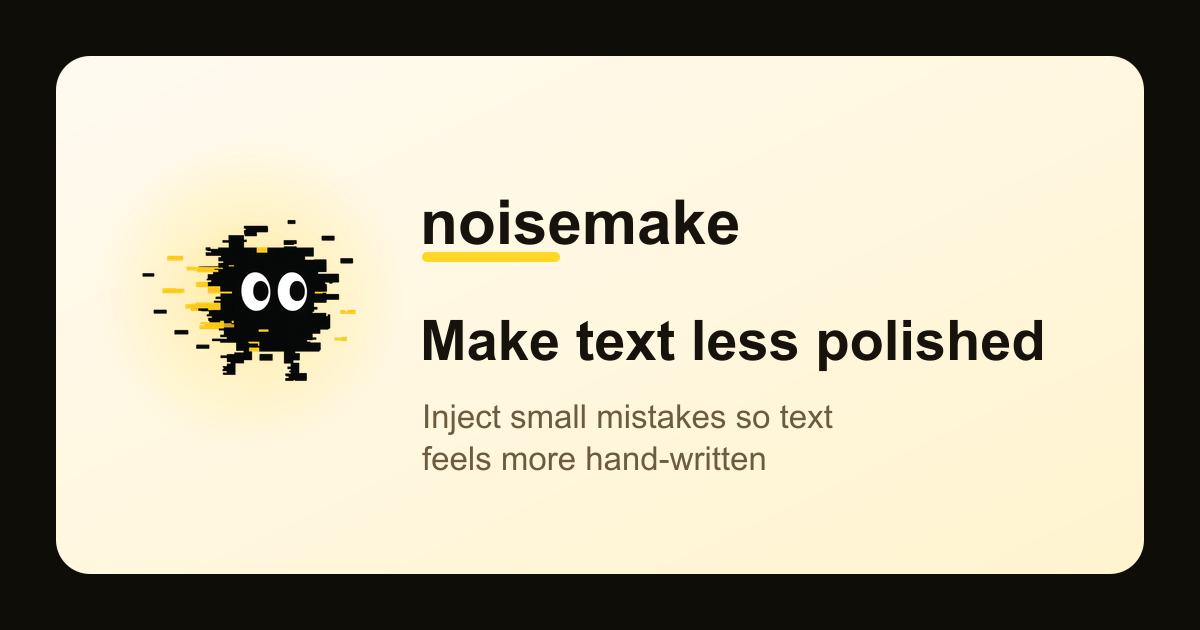
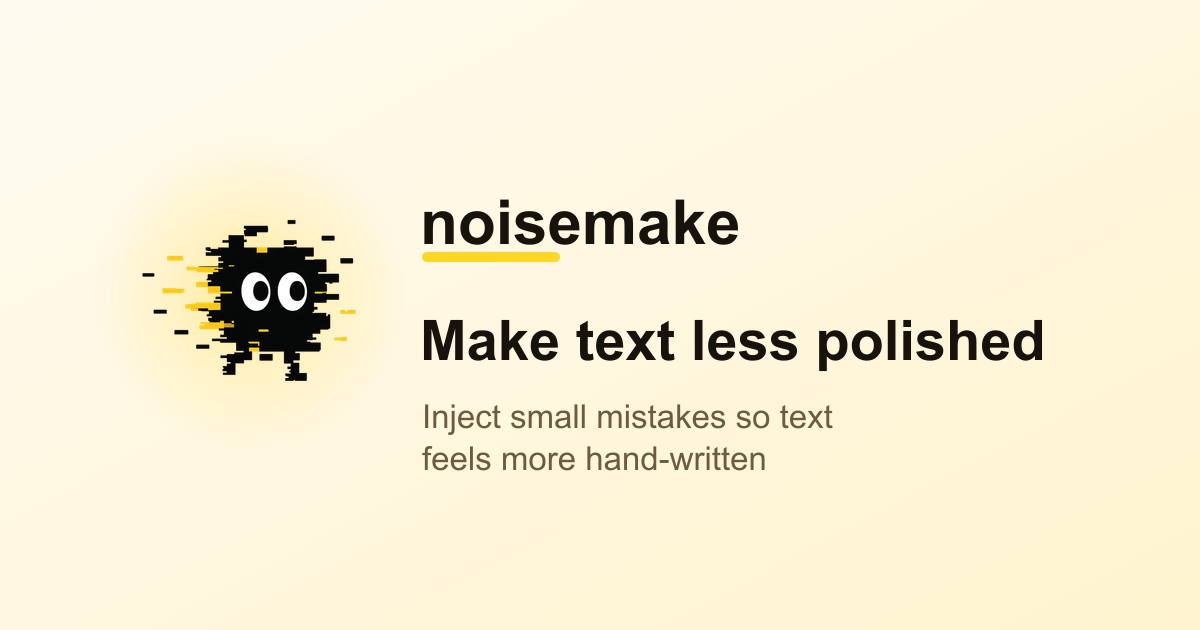
Smooth social card background

Changed region(s): [[0.0, 0.0, 1.0, 1.0]]

diff --git a/web/src/lib/og-image.ts b/web/src/lib/og-image.ts
@@ -73,13 +73,12 @@ export function renderOgSvg(lang: UiLang) {
       <stop offset="46%" stop-color="#ffd724" stop-opacity="0.22"/>
       <stop offset="100%" stop-color="#ffd724" stop-opacity="0"/>
     </radialGradient>
-    <linearGradient id="panel" x1="0" y1="0" x2="1" y2="1">
+    <linearGradient id="background" x1="0" y1="0" x2="1" y2="1">
       <stop offset="0%" stop-color="#fffaf0"/>
       <stop offset="100%" stop-color="#fff4cf"/>
     </linearGradient>
   </defs>
-  <rect width="1200" height="630" fill="#0f0d08"/>
-  <rect x="56" y="56" width="1088" height="518" rx="34" fill="url(#panel)"/>
+  <rect width="1200" height="630" fill="url(#background)"/>
   <circle cx="250" cy="294" r="156" fill="url(#logoGlow)" opacity="0.82"/>
   <image href="/logo.png" x="140" y="190" width="220" height="220" preserveAspectRatio="xMidYMid meet"/>
   <g transform="translate(420 176)">
